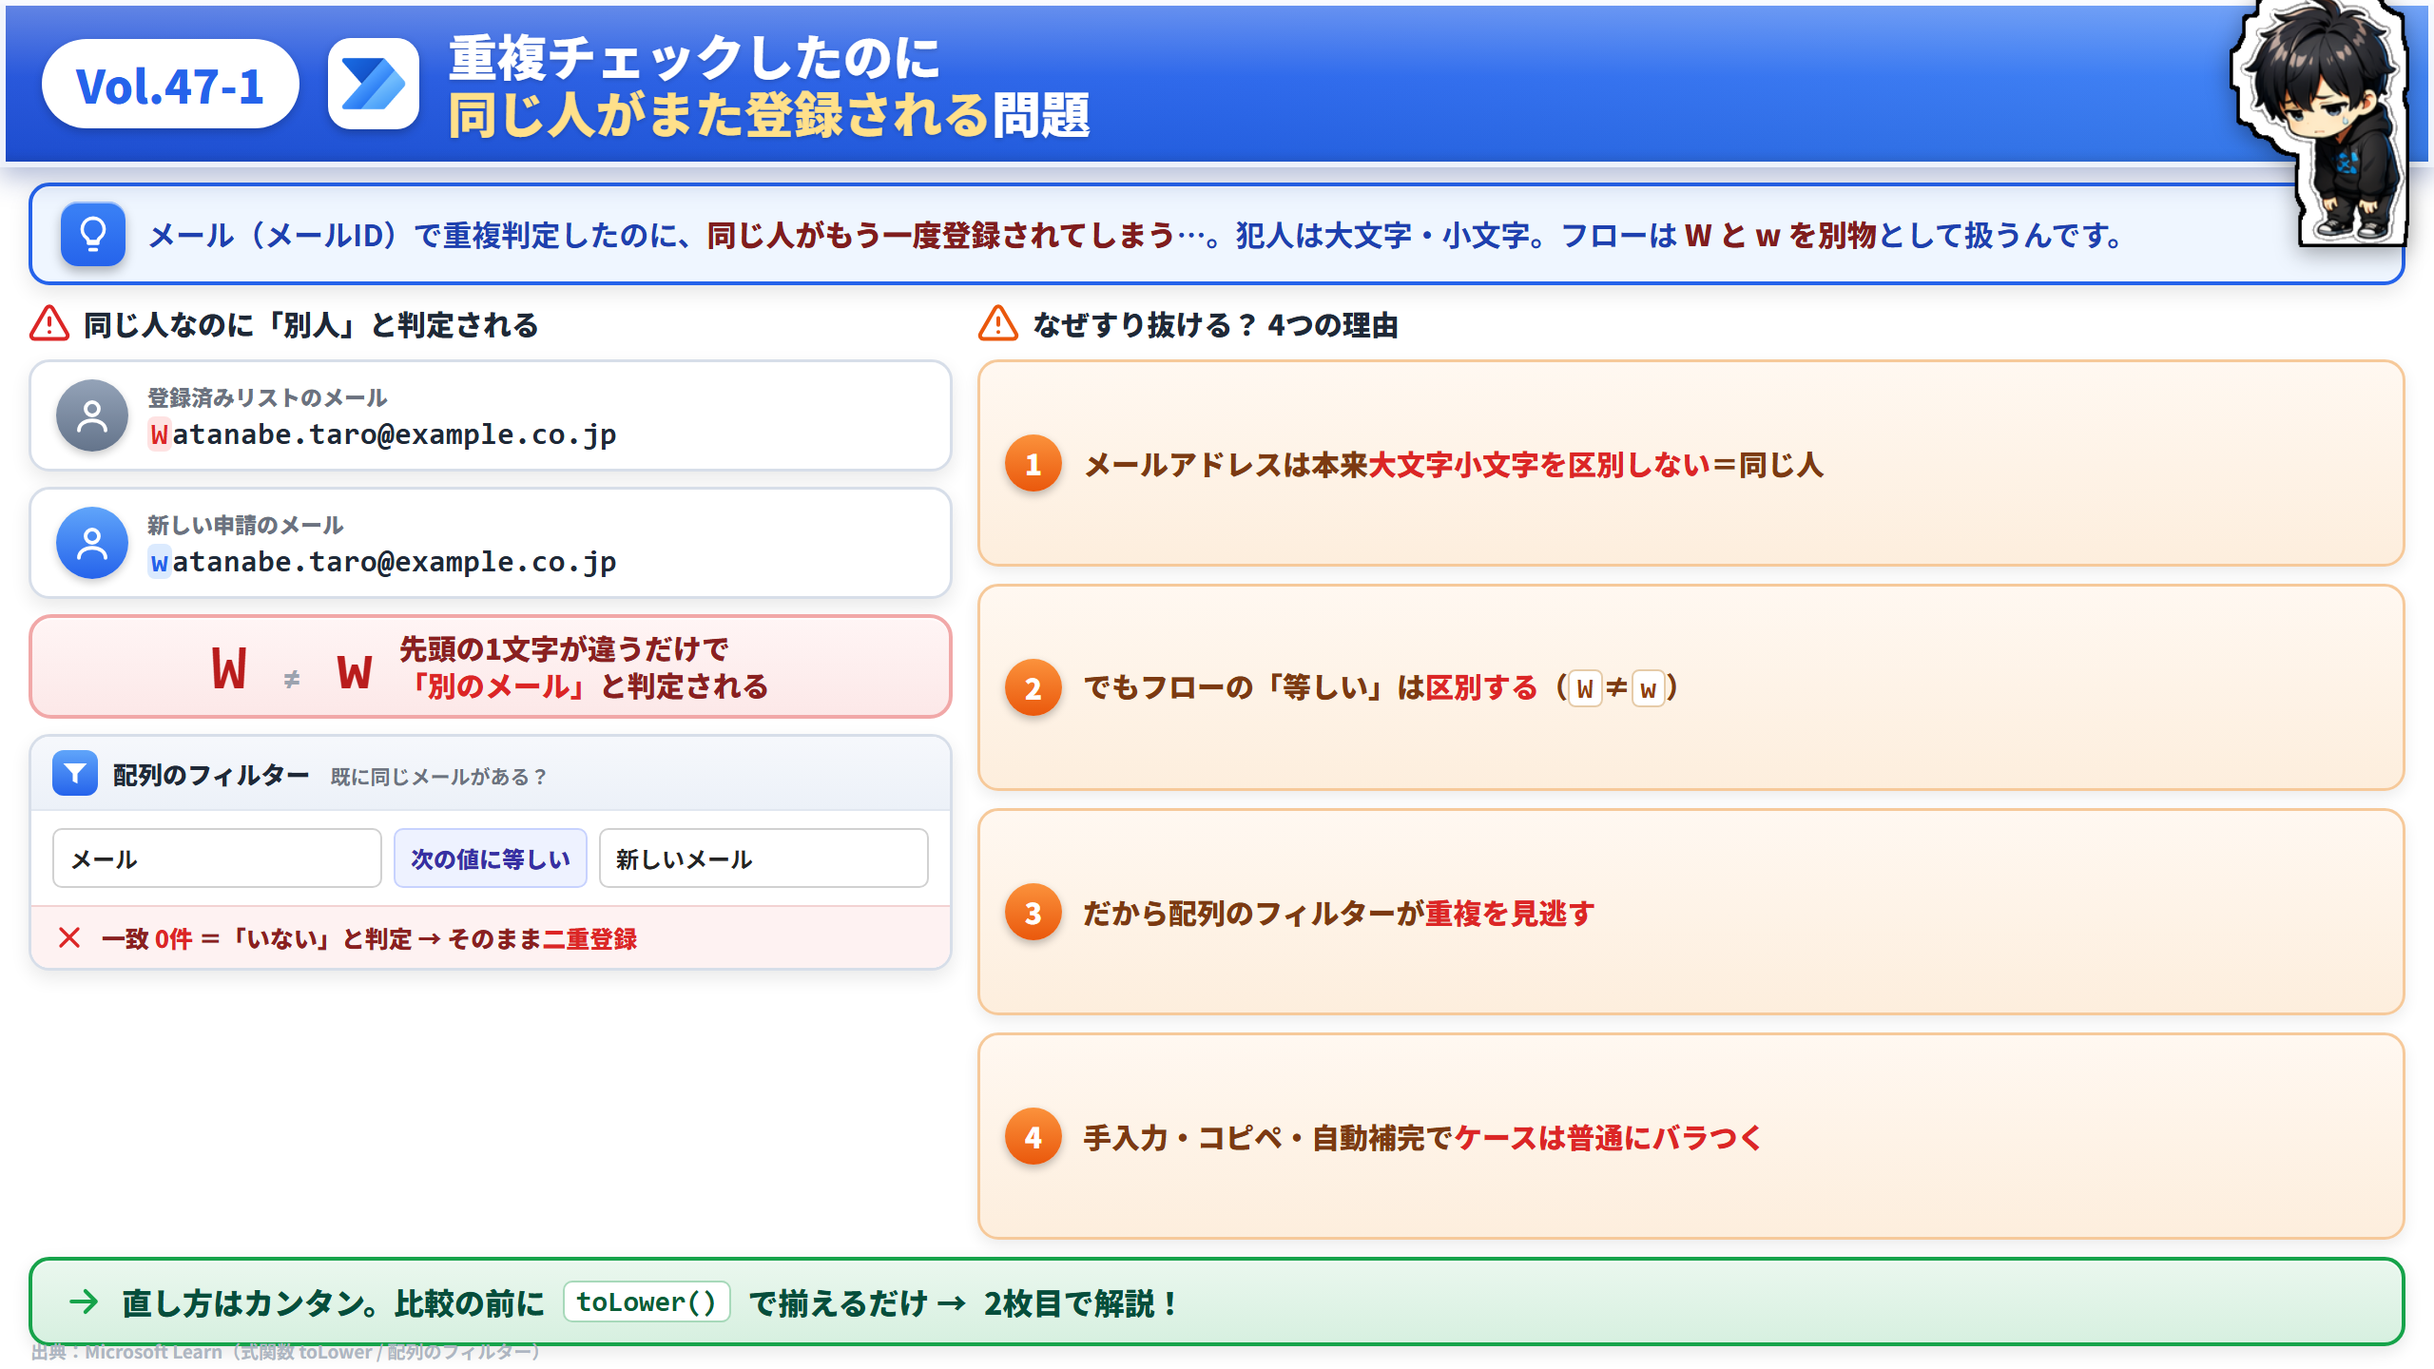
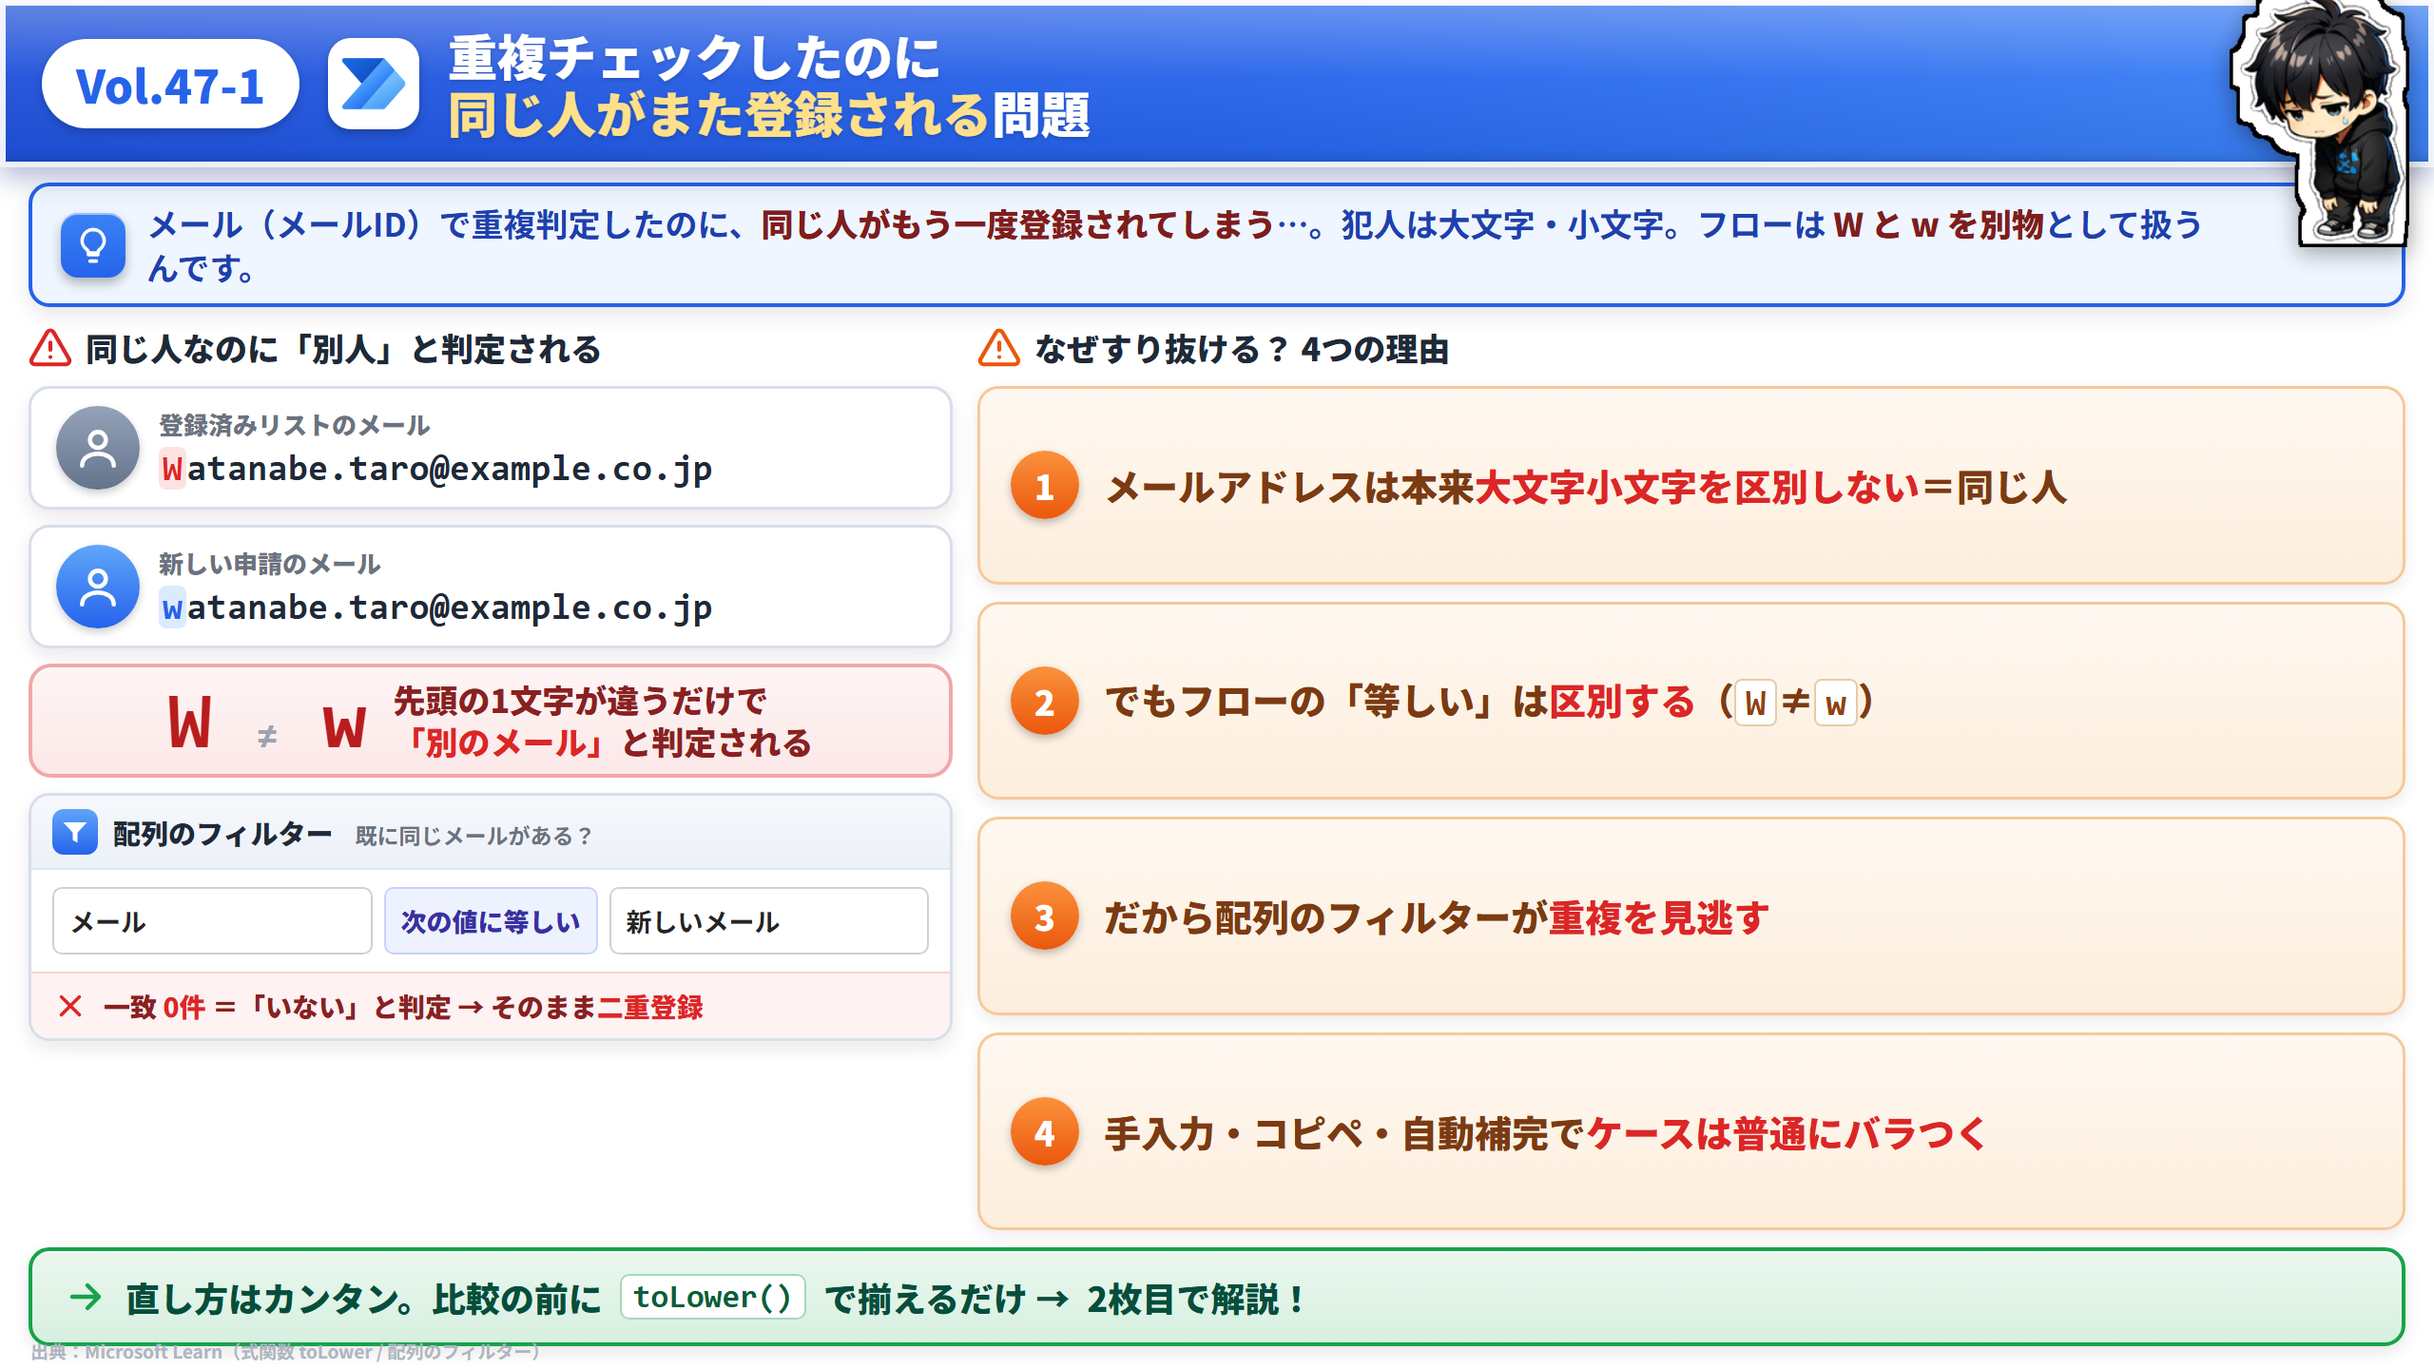
Vol.47: 文字を大きく・余白を詰めて視認性アップ（両スライド+PNG再生成）

diff --git a/assets/x/html/vol-47/index.html b/assets/x/html/vol-47/index.html
@@ -28,57 +28,57 @@
 
   .concl{margin:8px 15px 0;background:var(--blue-bg);border:2px solid var(--blue);border-radius:11px;display:flex;align-items:center;gap:11px;padding:8px 15px;flex:0 0 auto;box-shadow:0 4px 11px rgba(0,0,0,.10),inset 0 1px 0 rgba(255,255,255,.7);}
   .concl .chip{flex:0 0 auto;width:34px;height:34px;border-radius:9px;background:linear-gradient(180deg,#3B82F6,#2563EB);color:#fff;display:flex;align-items:center;justify-content:center;padding:7px;box-shadow:0 3px 6px rgba(0,0,0,.28),inset 0 1px 0 rgba(255,255,255,.5);}
-  .concl .txt{font-weight:700;font-size:15.5px;color:var(--blue-dark);line-height:1.32;padding-right:88px;}
+  .concl .txt{font-weight:700;font-size:17px;color:var(--blue-dark);line-height:1.34;padding-right:88px;}
   .concl .txt b{color:var(--red-dark);}
 
   .body{flex:1 1 auto;margin:9px 15px 0;display:flex;gap:13px;min-height:0;}
 
   /* 左：W≠w 比較ビジュアル */
   .left{flex:0 0 486px;display:flex;flex-direction:column;}
-  .panelttl{display:flex;align-items:center;gap:7px;font-weight:900;font-size:15px;color:var(--ink);margin-bottom:8px;}
-  .panelttl .pi{width:22px;height:22px;color:var(--red);}
+  .panelttl{display:flex;align-items:center;gap:7px;font-weight:900;font-size:17px;color:var(--ink);margin-bottom:8px;}
+  .panelttl .pi{width:23px;height:23px;color:var(--red);}
   .cmp{flex:1;display:flex;flex-direction:column;gap:8px;}
   .mailrow{display:flex;align-items:center;gap:10px;background:#fff;border:1.5px solid #D7DEE9;border-radius:11px;padding:9px 13px;box-shadow:0 4px 10px rgba(0,0,0,.09);}
-  .mailrow .av{flex:0 0 auto;width:38px;height:38px;border-radius:50%;display:flex;align-items:center;justify-content:center;color:#fff;box-shadow:0 2px 4px rgba(0,0,0,.2);}
-  .mailrow .av svg{width:21px;height:21px;}
+  .mailrow .av{flex:0 0 auto;width:44px;height:44px;border-radius:50%;display:flex;align-items:center;justify-content:center;color:#fff;box-shadow:0 2px 4px rgba(0,0,0,.2);}
+  .mailrow .av svg{width:25px;height:25px;}
   .mailrow .mm{flex:1;min-width:0;}
-  .mailrow .lab{font-size:11.5px;font-weight:800;color:var(--weak);margin-bottom:2px;}
-  .mailrow .adr{font-family:'Consolas','Courier New',monospace;font-size:16px;font-weight:800;color:#1F2937;letter-spacing:.2px;}
+  .mailrow .lab{font-size:13px;font-weight:800;color:var(--weak);margin-bottom:3px;}
+  .mailrow .adr{font-family:'Consolas','Courier New',monospace;font-size:19px;font-weight:800;color:#1F2937;letter-spacing:.2px;}
   .mailrow .adr .up{color:#DC2626;background:#FEE2E2;border-radius:4px;padding:0 2px;}
   .mailrow .adr .lo{color:#2563EB;background:#DBEAFE;border-radius:4px;padding:0 2px;}
 
   .verdict{display:flex;align-items:center;justify-content:center;gap:14px;background:linear-gradient(180deg,#FFF5F5,#FCE8E8);border:2px solid #F1A8A8;border-radius:12px;padding:6px 12px;box-shadow:inset 0 1px 0 rgba(255,255,255,.7);}
-  .verdict .neq{font-family:'Consolas',monospace;font-weight:900;font-size:34px;color:#B91C1C;line-height:1;}
-  .verdict .neq small{font-size:18px;color:#9CA3AF;}
-  .verdict .vt{font-weight:900;font-size:15px;color:#8A2020;line-height:1.3;}
+  .verdict .neq{font-family:'Consolas',monospace;font-weight:900;font-size:42px;color:#B91C1C;line-height:1;}
+  .verdict .neq small{font-size:22px;color:#9CA3AF;}
+  .verdict .vt{font-weight:900;font-size:17px;color:#8A2020;line-height:1.3;}
   .verdict .vt b{color:#DC2626;}
 
   .flt{background:#fff;border:1.5px solid #D7DEE9;border-radius:11px;overflow:hidden;box-shadow:0 4px 10px rgba(0,0,0,.09);}
   .flt .fh{display:flex;align-items:center;gap:8px;padding:7px 11px;background:linear-gradient(180deg,#F6F8FC,#ECF1F8);border-bottom:1px solid #E1E7F0;}
   .flt .fh .fi{flex:0 0 auto;width:24px;height:24px;border-radius:6px;background:linear-gradient(180deg,#60A5FA,#2563EB);color:#fff;display:flex;align-items:center;justify-content:center;}
   .flt .fh .fi svg{width:15px;height:15px;}
-  .flt .fh .ft{font-weight:900;font-size:13px;color:var(--ink);} .flt .fh .ft small{font-weight:700;color:var(--weak);font-size:10.5px;}
+  .flt .fh .ft{font-weight:900;font-size:14.5px;color:var(--ink);} .flt .fh .ft small{font-weight:700;color:var(--weak);font-size:11.5px;}
   .flt .cond{display:flex;align-items:stretch;gap:6px;padding:9px 11px;font-family:'Segoe UI','Noto Sans JP',sans-serif;}
-  .flt .cell{flex:1;border:1px solid #D1D1D1;border-radius:5px;background:#fff;padding:6px 8px;font-size:12px;color:#242424;font-weight:700;display:flex;align-items:center;}
+  .flt .cell{flex:1;border:1px solid #D1D1D1;border-radius:5px;background:#fff;padding:7px 8px;font-size:13.5px;color:#242424;font-weight:700;display:flex;align-items:center;}
   .flt .op{flex:0 0 auto;background:#EEF2FF;border-color:#C7D2FE;color:#3730A3;font-weight:800;}
   .flt .res{display:flex;align-items:center;gap:8px;padding:7px 11px;background:#FEF2F2;border-top:1px solid #F3D2D2;}
-  .flt .res svg{flex:0 0 auto;width:18px;height:18px;color:var(--red);}
-  .flt .res span{font-weight:800;font-size:12.5px;color:#8A2020;}
+  .flt .res svg{flex:0 0 auto;width:19px;height:19px;color:var(--red);}
+  .flt .res span{font-weight:800;font-size:14px;color:#8A2020;}
   .flt .res b{color:var(--red);}
 
   /* 右：原因 */
   .right{flex:1;display:flex;flex-direction:column;}
   .causes{flex:1;display:flex;flex-direction:column;gap:9px;}
-  .cause{flex:1;background:linear-gradient(180deg,#FFF8F1,#FDEEDD);border:1.5px solid #F6C99A;border-radius:11px;padding:9px 13px;display:flex;align-items:center;gap:11px;box-shadow:0 3px 8px rgba(0,0,0,.08);}
-  .cause .cn{flex:0 0 auto;width:30px;height:30px;border-radius:50%;background:linear-gradient(180deg,#FB923C,#EA580C);color:#fff;font-weight:900;font-size:15px;display:flex;align-items:center;justify-content:center;box-shadow:0 2px 4px rgba(0,0,0,.25);}
-  .cause .cx{font-weight:800;font-size:15px;color:#7C3A12;line-height:1.3;}
+  .cause{flex:1;background:linear-gradient(180deg,#FFF8F1,#FDEEDD);border:1.5px solid #F6C99A;border-radius:11px;padding:9px 16px;display:flex;align-items:center;gap:13px;box-shadow:0 3px 8px rgba(0,0,0,.08);}
+  .cause .cn{flex:0 0 auto;width:36px;height:36px;border-radius:50%;background:linear-gradient(180deg,#FB923C,#EA580C);color:#fff;font-weight:900;font-size:18px;display:flex;align-items:center;justify-content:center;box-shadow:0 2px 4px rgba(0,0,0,.25);}
+  .cause .cx{font-weight:800;font-size:19.5px;color:#7C3A12;line-height:1.34;}
   .cause .cx b{color:var(--red);}
-  .cause .cx code{font-family:'Consolas',monospace;background:#fff;border:1px solid #E6CBA8;border-radius:4px;padding:0 4px;color:#92400E;}
+  .cause .cx code{font-family:'Consolas',monospace;background:#fff;border:1px solid #E6CBA8;border-radius:4px;padding:0 5px;color:#92400E;}
 
-  .next{flex:0 0 auto;margin:9px 15px 12px;background:linear-gradient(180deg,#EAF7EE,#D7F0E0);border:2px solid var(--green);border-radius:11px;padding:10px 16px;display:flex;align-items:center;gap:9px;font-weight:900;font-size:16px;color:var(--green-dark);box-shadow:0 3px 9px rgba(0,0,0,.10),inset 0 1px 0 rgba(255,255,255,.7);}
-  .next .na{flex:0 0 auto;width:22px;height:22px;color:var(--green);}
+  .next{flex:0 0 auto;margin:9px 15px 12px;background:linear-gradient(180deg,#EAF7EE,#D7F0E0);border:2px solid var(--green);border-radius:11px;padding:11px 16px;display:flex;align-items:center;gap:9px;font-weight:900;font-size:18px;color:var(--green-dark);box-shadow:0 3px 9px rgba(0,0,0,.10),inset 0 1px 0 rgba(255,255,255,.7);}
+  .next .na{flex:0 0 auto;width:24px;height:24px;color:var(--green);}
   .next b{color:var(--green-dark);}
-  .next code{font-family:'Consolas',monospace;background:#fff;border:1px solid #A7D9BA;border-radius:5px;padding:1px 6px;color:#0B5E37;font-size:15px;}
+  .next code{font-family:'Consolas',monospace;background:#fff;border:1px solid #A7D9BA;border-radius:5px;padding:1px 6px;color:#0B5E37;font-size:17px;}
   .src{position:absolute;left:16px;bottom:3px;font-size:9.5px;color:#AEB6C2;font-weight:700;z-index:3;}
 </style>
 </head>

diff --git a/assets/x/html/vol-47b/index.html b/assets/x/html/vol-47b/index.html
@@ -27,7 +27,7 @@
 
   .concl{margin:8px 15px 0;background:var(--blue-bg);border:2px solid var(--blue);border-radius:11px;display:flex;align-items:center;gap:11px;padding:7px 15px;flex:0 0 auto;box-shadow:0 4px 11px rgba(0,0,0,.10),inset 0 1px 0 rgba(255,255,255,.7);}
   .concl .chip{flex:0 0 auto;width:32px;height:32px;border-radius:9px;background:linear-gradient(180deg,#3B82F6,#2563EB);color:#fff;display:flex;align-items:center;justify-content:center;padding:7px;box-shadow:0 3px 6px rgba(0,0,0,.28),inset 0 1px 0 rgba(255,255,255,.5);}
-  .concl .txt{font-weight:700;font-size:15px;color:var(--blue-dark);line-height:1.3;padding-right:86px;}
+  .concl .txt{font-weight:700;font-size:16.5px;color:var(--blue-dark);line-height:1.32;padding-right:86px;}
   .concl .txt b{color:var(--green-dark);}
   .concl .txt code{font-family:'Consolas',monospace;background:#fff;border:1px solid #BBD0F5;border-radius:4px;padding:0 5px;color:#1E40AF;}
 
@@ -39,17 +39,17 @@
   .cnum{position:absolute;top:-9px;left:-9px;width:30px;height:30px;border-radius:50%;background:linear-gradient(180deg,#2BD06A,#16A34A);color:#fff;font-weight:900;font-size:16px;display:flex;align-items:center;justify-content:center;box-shadow:0 2px 5px rgba(0,0,0,.3);z-index:5;border:2px solid #fff;}
   .col.key .cnum{background:linear-gradient(180deg,#A78BFA,#6D28D9);}
   .ch{display:flex;align-items:center;gap:9px;padding:9px 11px;min-height:58px;background:linear-gradient(180deg,#F7F9FC,#ECF0F6);border-bottom:1px solid #E1E6EF;}
-  .ch .sq{flex:0 0 auto;width:36px;height:36px;border-radius:8px;background:linear-gradient(180deg,#60A5FA,#2563EB);display:flex;align-items:center;justify-content:center;overflow:hidden;box-shadow:0 1px 2px rgba(0,0,0,.15);color:#fff;}
-  .ch .sq svg{width:21px;height:21px;}
+  .ch .sq{flex:0 0 auto;width:40px;height:40px;border-radius:8px;background:linear-gradient(180deg,#60A5FA,#2563EB);display:flex;align-items:center;justify-content:center;overflow:hidden;box-shadow:0 1px 2px rgba(0,0,0,.15);color:#fff;}
+  .ch .sq svg{width:24px;height:24px;}
   .col.key .ch .sq{background:linear-gradient(180deg,#A78BFA,#6D28D9);}
   .col.key .ch{background:linear-gradient(180deg,#F7F3FF,#EFE7FC);}
-  .ch .nm{font-weight:900;font-size:15.5px;color:var(--ink);line-height:1.18;}
-  .ch .nm small{display:block;font-weight:700;font-size:10.5px;color:var(--weak);margin-top:2px;}
+  .ch .nm{font-weight:900;font-size:16.5px;color:var(--ink);line-height:1.18;}
+  .ch .nm small{display:block;font-weight:700;font-size:11.5px;color:var(--weak);margin-top:2px;}
 
   .cp{flex:1;font-family:'Segoe UI','Noto Sans JP',sans-serif;padding:9px 11px 10px;display:flex;flex-direction:column;gap:9px;}
   .ptop{flex:0 0 192px;display:flex;flex-direction:column;gap:6px;overflow:hidden;background:#F3F6FB;border:1px solid #DCE4F0;border-radius:9px;padding:8px 10px;margin-top:2px;}
   .col.key .ptop{background:#FAF7FF;border-color:#E4D9F7;}
-  .sect{display:flex;align-items:center;gap:6px;font-size:11.5px;font-weight:900;color:#5A6B85;}
+  .sect{display:flex;align-items:center;gap:6px;font-size:12.5px;font-weight:900;color:#5A6B85;}
   .sect::before{content:"";width:4px;height:13px;border-radius:2px;background:#8FA0BC;}
   .col.key .sect{color:#6D28D9;} .col.key .sect::before{background:#A78BFA;}
 
@@ -84,20 +84,20 @@
 
   .howsteps{flex:1;margin-top:2px;background:linear-gradient(180deg,#F5F8FD,#EEF3FA);border:1px solid #D7E1F0;border-radius:9px;padding:9px 11px;display:flex;flex-direction:column;gap:7px;}
   .col.key .howsteps{background:linear-gradient(180deg,#F8F4FE,#F1EAFB);border-color:#E4D9F7;}
-  .howsteps .hh{display:flex;align-items:center;gap:6px;font-size:13px;font-weight:900;color:#2B3A52;}
+  .howsteps .hh{display:flex;align-items:center;gap:6px;font-size:14.5px;font-weight:900;color:#2B3A52;}
   .howsteps .hh::before{content:"";width:4px;height:14px;border-radius:2px;background:#2563EB;}
   .col.key .howsteps .hh{color:#4C1D95;} .col.key .howsteps .hh::before{background:#A78BFA;}
   .howsteps ol{list-style:none;display:flex;flex-direction:column;justify-content:space-evenly;flex:1;gap:6px;}
-  .howsteps li{display:flex;gap:9px;align-items:flex-start;font-size:14.5px;font-weight:700;color:#2F3E57;line-height:1.34;}
-  .howsteps li .sn{flex:0 0 auto;width:21px;height:21px;border-radius:50%;background:#2563EB;color:#fff;font-size:12px;font-weight:900;display:flex;align-items:center;justify-content:center;margin-top:1px;}
+  .howsteps li{display:flex;gap:10px;align-items:flex-start;font-size:16.5px;font-weight:700;color:#2F3E57;line-height:1.36;}
+  .howsteps li .sn{flex:0 0 auto;width:24px;height:24px;border-radius:50%;background:#2563EB;color:#fff;font-size:13.5px;font-weight:900;display:flex;align-items:center;justify-content:center;margin-top:1px;}
   .howsteps li b{color:#1E40AF;}
-  .howsteps li code{font-family:'Consolas',monospace;background:#fff;border:1px solid #CFE0F5;border-radius:4px;padding:0 4px;color:#1E40AF;font-size:13px;}
+  .howsteps li code{font-family:'Consolas',monospace;background:#fff;border:1px solid #CFE0F5;border-radius:4px;padding:0 5px;color:#1E40AF;font-size:15px;}
   .col.key .howsteps li.key2{color:#5B21B6;} .col.key .howsteps li.key2 .sn{background:#6D28D9;} .col.key .howsteps li.key2 b{color:#6D28D9;} .col.key .howsteps li.key2 code{color:#6D28D9;border-color:#DDD0F5;}
 
   .pitfall{flex:0 0 auto;margin:9px 14px 11px;background:linear-gradient(180deg,#FFF7ED,#FFEFD9);border:1.5px solid #FDBA74;border-radius:11px;padding:8px 14px;display:flex;align-items:center;gap:11px;box-shadow:0 2px 6px rgba(0,0,0,.07);position:relative;}
   .pitfall .pl{flex:0 0 auto;display:flex;align-items:center;gap:6px;background:linear-gradient(180deg,#FB923C,#EA580C);color:#fff;font-weight:900;font-size:13px;border-radius:8px;padding:6px 11px;box-shadow:0 2px 4px rgba(0,0,0,.25);}
   .pitfall .pl svg{width:15px;height:15px;}
-  .pitfall .px{flex:1;font-weight:800;font-size:13px;color:#7C2D12;line-height:1.34;padding-right:96px;}
+  .pitfall .px{flex:1;font-weight:800;font-size:14px;color:#7C2D12;line-height:1.36;padding-right:96px;}
   .pitfall .px b{color:var(--orange);}
   .pitfall .px code{font-family:'Consolas',monospace;background:#fff;border:1px solid #F1C994;border-radius:4px;padding:0 4px;color:#92400E;}
   .pit-chara{position:absolute;right:11px;bottom:-2px;height:92px;z-index:50;filter:drop-shadow(0 3px 6px rgba(0,0,0,.4));}
